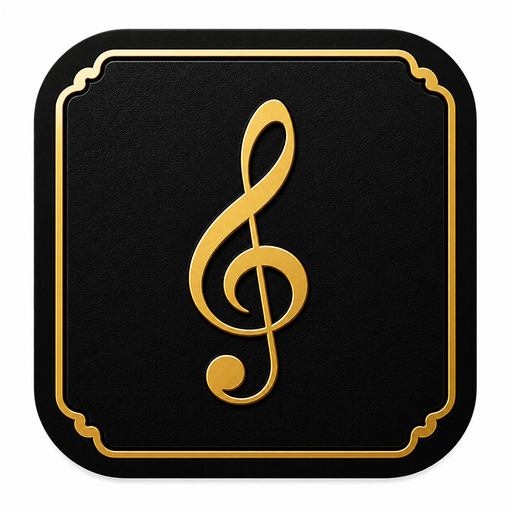
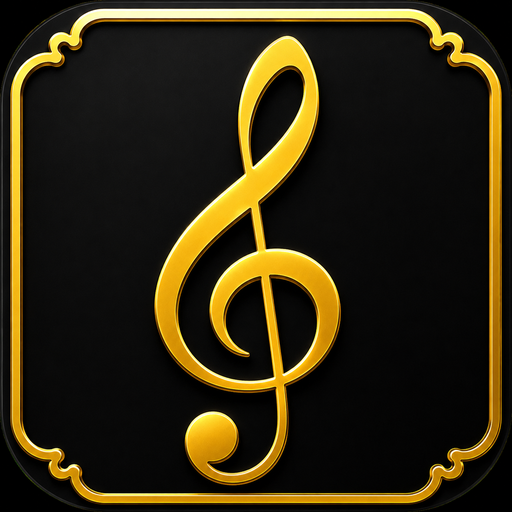
Actualizar icono definitivo de Himnario

diff --git a/index.html b/index.html
@@ -6,10 +6,13 @@
   <meta name="theme-color" id="themeColor" content="#f8f2e8">
   <meta name="apple-mobile-web-app-capable" content="yes">
   <meta name="apple-mobile-web-app-title" content="Himnario">
-  <link rel="manifest" href="./manifest.webmanifest">
-  <link rel="apple-touch-icon" href="./apple-touch-icon.png?v=5">
-  <link rel="icon" type="image/png" sizes="192x192" href="./icons/himnario-icon-192.png">
-  <link rel="icon" type="image/png" sizes="512x512" href="./icons/himnario-icon-512.png">
+  <link rel="manifest" href="./manifest.webmanifest?v=20260727-103415">
+  <link rel="apple-touch-icon" sizes="180x180" href="./apple-touch-icon.png?v=20260727-103415">
+  <link rel="icon" type="image/png" sizes="16x16" href="./icons/himnario-icon-16.png?v=20260727-103415">
+  <link rel="icon" type="image/png" sizes="32x32" href="./icons/himnario-icon-32.png?v=20260727-103415">
+  <link rel="icon" type="image/png" sizes="48x48" href="./icons/himnario-icon-48.png?v=20260727-103415">
+  <link rel="icon" type="image/png" sizes="192x192" href="./icons/himnario-icon-192.png?v=20260727-103415">
+  <link rel="icon" type="image/png" sizes="512x512" href="./icons/himnario-icon-512.png?v=20260727-103415">
   <title>Himnario</title>
   <style>
     :root {

diff --git a/service-worker.js b/service-worker.js
@@ -1,5 +1,18 @@
-const CACHE_VERSION = "himnario-pwa-v5";
-const STATIC_ASSETS = ["./apple-touch-icon.png"];
+const CACHE_VERSION = "himnario-pwa-v20260727-103415-icon";
+const STATIC_ASSETS = [
+  "./apple-touch-icon.png",
+  "./icons/himnario-icon-16.png",
+  "./icons/himnario-icon-32.png",
+  "./icons/himnario-icon-48.png",
+  "./icons/himnario-icon-72.png",
+  "./icons/himnario-icon-96.png",
+  "./icons/himnario-icon-128.png",
+  "./icons/himnario-icon-144.png",
+  "./icons/himnario-icon-152.png",
+  "./icons/himnario-icon-192.png",
+  "./icons/himnario-icon-384.png",
+  "./icons/himnario-icon-512.png"
+];
 
 self.addEventListener("install", (event) => {
   event.waitUntil(
